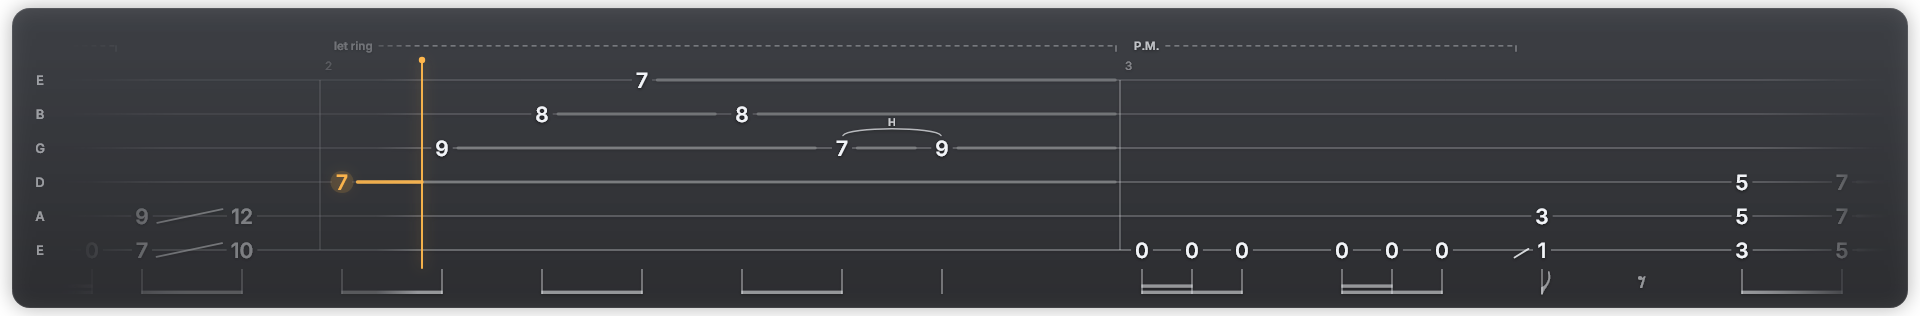
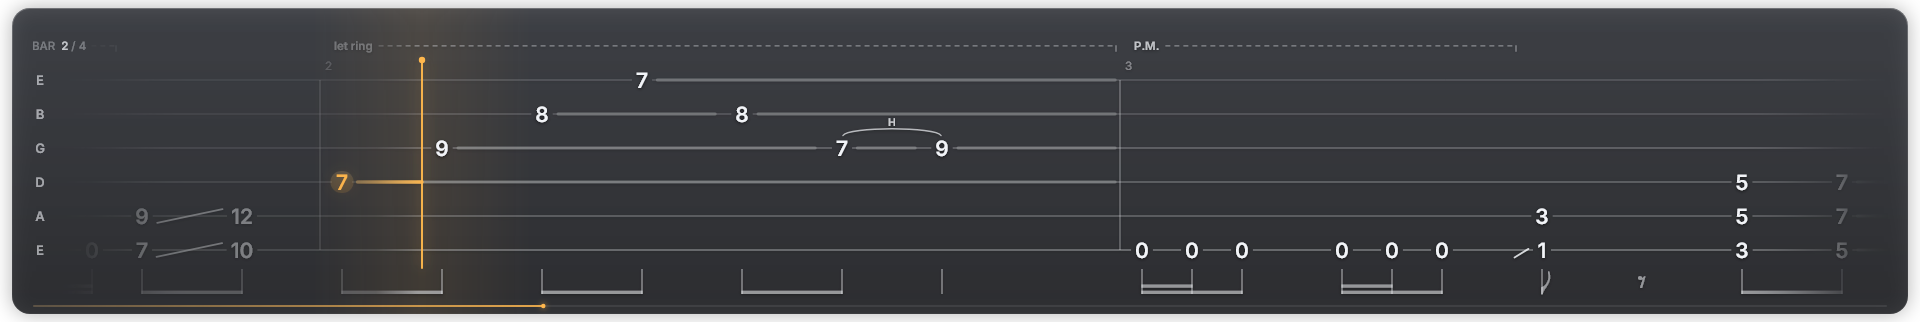
Visual polish, progress line, bar counter and --tuning
- Glossy note chips, comet-style sustain lines, glass card edge and a
  soft light column behind the playhead
- Bar counter and a song progress line
- Strip slides up into place at the start and back down at the end
- --tuning relabels the strings (with real sharp/flat glyphs)
- README and preview image updated

diff --git a/tabscroll.py b/tabscroll.py
@@ -80,7 +80,7 @@ def _props(el):
     return {p.get("name"): p for p in el.findall("Properties/Property")}
 
 
-def load_score(path, track=0, drop_strings=()):
+def load_score(path, track=0, drop_strings=(), tuning=None):
     with zipfile.ZipFile(path) as z:
         root = ET.fromstring(z.read("Content/score.gpif"))
 
@@ -100,6 +100,10 @@ def load_score(path, track=0, drop_strings=()):
     sc.title = (root.findtext("Score/Title") or "").strip()
     sc.track_name = tr.findtext("Name").strip()
     sc.tuning = [PITCH_NAMES[pitches[gs] % 12] for gs in reversed(kept)]  # top row first
+    if tuning:
+        if len(tuning) != len(kept):
+            raise SystemExit(f"--tuning has {len(tuning)} names but {len(kept)} strings are shown")
+        sc.tuning = list(reversed(tuning))
     sc.nstrings = len(kept)
 
     tempos = {}
@@ -317,7 +321,7 @@ class Renderer:
         self.yb = self.ys[-1]
         self.stem_top = self.yb + 19 * s
         self.stem_bot = self.stem_top + 25 * s
-        self.H = int(round(self.stem_bot + 22 * s))
+        self.H = int(round(self.stem_bot + 28 * s))
         self.H += self.H % 2
         self.card_l, self.card_r = 12 * s, self.W - 12 * s
         self.card_t, self.card_b = 8 * s, self.H - 8 * s
@@ -351,8 +355,12 @@ class Renderer:
         assert self.info.colorType() == skia.kBGRA_8888_ColorType
         self.surf_a = skia.Surface(self.W, self.H)
         self.surf_b = skia.Surface(self.W, self.H)
+        self.surf_c = skia.Surface(self.W, self.H)
         self.buf_a = np.zeros((self.H, self.W, 4), np.uint8)
         self.buf_b = np.zeros((self.H, self.W, 4), np.uint8)
+        self.buf_c = np.zeros((self.H, self.W, 4), np.uint8)
+        self.f_acc = load_font("Bravura.otf", 19 * s)
+        self.bar_t0 = [b[2] for b in sc.bars]
         self._build_static()
 
     # -- geometry -----------------------------------------------------------
@@ -408,8 +416,22 @@ class Renderer:
                 [skia.Point(0, self.card_t), skia.Point(0, self.card_b)],
                 [rgba((20, 23, 30), 0.74), rgba((10, 11, 15), 0.80)], [0, 1])
             c.drawRRect(rr, mkpaint(shader=fill))
+            # soft light column behind the playhead
+            c.save()
+            c.clipRRect(rr, skia.ClipOp.kIntersect, True)
+            P, hw = self.P, 110 * s
+            beam = skia.GradientShader.MakeLinear(
+                [skia.Point(P - hw, 0), skia.Point(P + hw, 0)],
+                [rgba(self.accent, 0), rgba(self.accent, 0.085), rgba(self.accent, 0)], [0, 0.5, 1])
+            c.drawRect(skia.Rect.MakeLTRB(P - hw, self.card_t, P + hw, self.card_b), mkpaint(shader=beam))
+            c.restore()
+            # glass edge: brighter along the top, fading down
             inset = skia.RRect.MakeRectXY(r.makeInset(0.5 * s, 0.5 * s), 17.5 * s, 17.5 * s)
-            c.drawRRect(inset, mkpaint((255, 255, 255), 0.08, stroke=1 * s))
+            sheen = skia.GradientShader.MakeLinear(
+                [skia.Point(0, self.card_t), skia.Point(0, self.card_b)],
+                [rgba((255, 255, 255), 0.22), rgba((255, 255, 255), 0.07), rgba((255, 255, 255), 0.04)],
+                [0, 0.35, 1])
+            c.drawRRect(inset, mkpaint(stroke=1 * s, shader=sheen))
         self.draw_labels(c)
         buf = np.zeros((H, W, 4), np.uint8)
         surf.readPixels(self.info, buf)
@@ -442,8 +464,8 @@ class Renderer:
         t = t_video - self.preroll
         W, H, s = self.W, self.H, self.s
 
-        master = min(1.0, t_video / 0.45, (self.total - t_video) / 0.9)
-        master = ease_out(max(0.0, master))
+        master = ease_out(max(0.0, min(1.0, t_video / 0.7, (self.total - t_video) / 0.9)))
+        lift = (1.0 - master) * 22 * s          # slides up into place, and back down at the end
 
         t_lo = t - (self.P + 80 * s) / self.pps
         t_hi = t + (W - self.P + 80 * s) / self.pps
@@ -470,11 +492,16 @@ class Renderer:
         self.draw_playhead(c, t)
         self.draw_live(c, t, vis)
 
+        c = self.surf_c.getCanvas()
+        c.clear(skia.ColorTRANSPARENT)
+        self.draw_hud(c, t)
+
         self.surf_a.readPixels(self.info, self.buf_a)
         self.surf_b.readPixels(self.info, self.buf_b)
-        return self.composite(master)
+        self.surf_c.readPixels(self.info, self.buf_c)
+        return self.composite(master, lift)
 
-    def composite(self, master):
+    def composite(self, master, lift=0.0):
         A = self.buf_a.astype(np.float32)
         A *= self.mask_a
         B = self.buf_b.astype(np.float32)
@@ -490,6 +517,13 @@ class Renderer:
         out += A
         out *= 1.0 - B[..., 3:4]
         out += B
+        C = self.buf_c.astype(np.float32) * (1 / 255.0)
+        out *= 1.0 - C[..., 3:4]
+        out += C
+        if lift > 0.02:
+            M = np.float32([[1, 0, 0], [0, 1, lift]])
+            out = cv2.warpAffine(out, M, (self.W, self.H), flags=cv2.INTER_LINEAR,
+                                 borderMode=cv2.BORDER_CONSTANT, borderValue=(0, 0, 0, 0))
         if master < 1.0:
             out *= master
         alpha = out[..., 3:4]
@@ -806,8 +840,14 @@ class Renderer:
                 if fl <= 0 and su <= 0:
                     continue
                 if su > 0:
-                    for xa, xb in self.tail_segments(n, t, x_max=self.P):
-                        c.drawLine(xa, y, xb, y, mkpaint(self.accent, 0.9 * su, stroke=3.4 * s))
+                    segs = self.tail_segments(n, t, x_max=self.P)
+                    if segs:
+                        g0, g1 = segs[0][0], max(segs[-1][1], segs[0][0] + 1)
+                        comet = skia.GradientShader.MakeLinear(
+                            [skia.Point(g0, 0), skia.Point(g1, 0)],
+                            [rgba(self.accent, 0.30 * su), rgba(self.accent, 0.95 * su)], [0, 1])
+                        for xa, xb in segs:
+                            c.drawLine(xa, y, xb, y, mkpaint(stroke=3.4 * s, shader=comet))
                 if fl <= 0:
                     self.draw_fret_text(c, n, x, y, self.accent, su)
                     continue
@@ -819,7 +859,12 @@ class Renderer:
                 r = self.chip_rect(n, x, y)
                 rr = skia.RRect.MakeRectXY(r, r.height() / 2, r.height() / 2)
                 c.drawRRect(rr, mkpaint(self.accent, 0.55 * fl, blur=7 * s))
-                c.drawRRect(rr, mkpaint(self.accent, fl))
+                hi = tuple(int(a + (255 - a) * 0.38) for a in self.accent)
+                lo = tuple(int(a * 0.9) for a in self.accent)
+                gloss = skia.GradientShader.MakeLinear(
+                    [skia.Point(0, r.top()), skia.Point(0, r.bottom())],
+                    [rgba(hi, fl), rgba(self.accent, fl), rgba(lo, fl)], [0, 0.55, 1])
+                c.drawRRect(rr, mkpaint(shader=gloss))
                 base, base_a = (self.accent, su) if su > 0 else (self.ink, self.dim_at(x))
                 mix = fl * fl          # text returns to its resting colour before the chip is gone
                 col = tuple(int(round(p + (q - p) * mix)) for p, q in zip(base, self.dark))
@@ -827,10 +872,48 @@ class Renderer:
                 c.restore()
 
     def draw_labels(self, c):
+        cap = self.f_lab.getMetrics().fCapHeight
+        paint = mkpaint(self.ink, 0.6)
         for name, y in zip(self.sc.tuning, self.ys):
-            w = self.f_lab.measureText(name)
-            c.drawString(name, self.lab_x - w / 2, y + self.f_lab.getMetrics().fCapHeight / 2,
-                         self.f_lab, mkpaint(self.ink, 0.55))
+            letter, acc = name[:1], name[1:]
+            glyph = {"#": "\uE262", "b": "\uE260"}.get(acc, "")
+            w = self.f_lab.measureText(letter)
+            gw, gb = 0.0, None
+            if glyph:
+                gb = self.f_acc.getBounds(self.f_acc.textToGlyphs(glyph))[0]
+                gw = gb.width() + 1.5 * self.s
+            x = self.lab_x - (w + gw) / 2
+            c.drawString(letter, x, y + cap / 2, self.f_lab, paint)
+            if glyph:
+                gx = x + w + 1.5 * self.s - gb.left()
+                gy = y - cap * 0.12 - (gb.top() + gb.bottom()) / 2
+                c.drawString(glyph, gx, gy, self.f_acc, paint)
+
+    def draw_hud(self, c, t):
+        """Bar counter and a hairline showing progress through the song."""
+        s = self.s
+        x0, x1 = self.card_l + 22 * s, self.card_r - 22 * s
+        y = self.card_b - 8 * s
+        c.drawLine(x0, y, x1, y, mkpaint((255, 255, 255), 0.08, stroke=2 * s))
+        frac = min(1.0, max(0.0, t / self.sc.end_t))
+        if frac > 0:
+            xf = x0 + (x1 - x0) * frac
+            fill = skia.GradientShader.MakeLinear(
+                [skia.Point(x0, 0), skia.Point(xf, 0)],
+                [rgba(self.accent, 0.15), rgba(self.accent, 0.85)], [0, 1])
+            c.drawLine(x0, y, xf, y, mkpaint(stroke=2 * s, shader=fill))
+            c.drawCircle(xf, y, 3.2 * s, mkpaint(self.accent, 0.35, blur=2.5 * s))
+            c.drawCircle(xf, y, 2.2 * s, mkpaint(self.accent, 1.0))
+        nbars = len(self.sc.bars)
+        cur = min(nbars, max(1, bisect.bisect_right(self.bar_t0, t)))
+        yb = self.y0 - 30 * s
+        xl = self.card_l + 20 * s
+        c.drawString("BAR", xl, yb, self.f_small, mkpaint(self.ink, 0.35))
+        xl += self.f_small.measureText("BAR") + 6 * s
+        num = str(cur)
+        c.drawString(num, xl, yb, self.f_tech, mkpaint(self.ink, 0.75))
+        xl += self.f_tech.measureText(num) + 3 * s
+        c.drawString("/ %d" % nbars, xl, yb, self.f_small, mkpaint(self.ink, 0.35))
 
 
 # --------------------------------------------------------------------------
@@ -853,9 +936,9 @@ def over(bg, fg_rgba, x, y):
 _worker = None
 
 
-def _init_worker(gp, track, drop, kw):
+def _init_worker(gp, track, drop, tuning, kw):
     global _worker
-    _worker = Renderer(load_score(gp, track, drop), **kw)
+    _worker = Renderer(load_score(gp, track, drop, tuning), **kw)
 
 
 def _render_frame(k):
@@ -888,6 +971,17 @@ def ffmpeg_cmd(r, args, fmts):
         else:
             raise SystemExit(f"unknown format {f}")
     return cmd + ["-filter_complex", ";".join(fc)] + maps
+
+
+def parse_tuning(text):
+    """'A-E-B-E-G#-B', 'A E B E G♯ B' or 'A,E,B,...' -> ['A', 'E', 'B', 'E', 'G#', 'B']."""
+    import re
+    text = text.replace("♯", "#").replace("♭", "b")
+    names = [n for n in re.split(r"[\s,\-–—/]+", text) if n]
+    for n in names:
+        if not re.fullmatch(r"[A-Ga-g][#b]?", n):
+            raise SystemExit(f"--tuning: can't read note name {n!r}")
+    return [n[0].upper() + n[1:] for n in names]
 
 
 def list_tracks(path):
@@ -938,6 +1032,8 @@ def main():
                     help="comma list of strings to hide, counted from the LOWEST string starting at 0 "
                          "(e.g. 0 hides the low B of a 7-string)")
     ap.add_argument("--list-tracks", action="store_true", help="print the tracks in the file and exit")
+    ap.add_argument("--tuning", help='string names to display, low to high, e.g. "A E B E G# B" '
+                                     "(labels only; fret numbers are unchanged)")
     ap.add_argument("--scale", type=float, default=1.0, help="1 = 1920 wide, 2 = 3840 wide")
     ap.add_argument("--variant", choices=["card", "clean"], default="card")
     ap.add_argument("--fps", type=int, default=60)
@@ -958,10 +1054,11 @@ def main():
         list_tracks(args.gp)
         return
     drop = tuple(int(v) for v in args.drop_strings.split(",") if v.strip())
+    tuning = parse_tuning(args.tuning) if args.tuning else None
     kw = dict(scale=args.scale, variant=args.variant, fps=args.fps,
               preroll=args.preroll, px_per_beat=args.px_per_beat, playhead=args.playhead,
               accent=tuple(int(args.accent.lstrip("#")[i:i + 2], 16) for i in (0, 2, 4)))
-    sc = load_score(args.gp, args.track, drop)
+    sc = load_score(args.gp, args.track, drop, tuning)
     r = Renderer(sc, **kw)
     print(f"{sc.track_name}: {len(sc.bars)} bars, {len(sc.beats)} beats, strings {' '.join(sc.tuning)}, "
           f"dropped {sc.dropped} notes; frame {r.W}x{r.H}, {r.total:.3f}s, {r.nframes} frames; "
@@ -991,7 +1088,7 @@ def main():
     import multiprocessing as mp
     import time
     t_start, last = time.time(), 0.0
-    with mp.Pool(args.workers, initializer=_init_worker, initargs=(args.gp, args.track, drop, kw)) as pool:
+    with mp.Pool(args.workers, initializer=_init_worker, initargs=(args.gp, args.track, drop, tuning, kw)) as pool:
         for k, frame in enumerate(pool.imap(_render_frame, range(first, first + nframes), chunksize=4)):
             proc.stdin.write(frame)
             now = time.time()

diff --git a/README.md b/README.md
@@ -72,6 +72,10 @@ track 2: 'Bass'           4 strings, low->high E A D G        notes per string [
   Suppose a 7-string track only touches the low string in the intro and you want a normal 6-line tab:
   add `--drop-strings 0`. Notes on hidden strings are removed, and the strip shrinks to fit.
   The `notes per string` list shows how much you'd lose.
+- **Relabel the strings** with `--tuning` if you play the tab in a different tuning than it was written in, as long as
+  it has the same intervals (e.g. a tab written in C G D G B D, played tuned 3 semitones down):
+  `--tuning "A E B E G# B"`, listed low to high. Separate names with spaces, commas or dashes; `#`/`♯` and `b`/`♭` both work.
+  Only the labels change; the fret numbers stay the same.
 
 ## 4. Preview a frame
 
@@ -106,6 +110,7 @@ python tabscroll.py mysong.gp --scale 2 --variant clean --out renders/mysong_4k_
 |---|---|---|
 | `--track N` | `0` | Which track to render (see `--list-tracks`). |
 | `--drop-strings 0,1` | none | Hide strings, counted from the lowest string starting at 0. |
+| `--tuning "A E B E G# B"` | from file | Relabel the strings, low to high. Labels only; the fret numbers don't change. |
 | `--scale` | `1` | `1` gives a 1920-wide strip (for 1080p); `2` gives a 3840-wide strip (for 4K). |
 | `--variant` | `card` | `card` puts the tab on a dark rounded backdrop. `clean` shows only the tab with a soft shadow. |
 | `--formats` | `prores,webm` | Any of `prores`, `webm`, `preview` (comma-separated). |
@@ -127,7 +132,7 @@ python tabscroll.py mysong.gp --scale 2 --variant clean --out renders/mysong_4k_
 | `webm` | `*_vp9alpha.webm` | OBS, browsers and web-based editors. Transparent and small (tens of MB). |
 | `preview` | `*_preview.mp4` | Just for looking at: a 16:9 H.264 video with the strip composited on the background. Not transparent. |
 
-The strip is 1920×316 at `--scale 1` or 3840×632 at `--scale 2`. It gets taller if you keep 7+ strings.
+The strip is 1920×322 at `--scale 1` or 3840×644 at `--scale 2`. It gets taller if you keep 7+ strings.
 
 ## 6. Put it in your video
 
@@ -180,6 +185,8 @@ Use the 4K render on 4K timelines. On a 1080p timeline, either render with `--sc
 | `P.M. - - - -┐` / `let ring - - -┐` | Palm mute and let ring spans. |
 | Stems and beams under the tab | Rhythm (8ths, 16ths, dots and rests). |
 | Dimmed notes on the left | Already played. |
+| `BAR 13 / 42` (top left) | Current bar and total bars. |
+| Thin line along the bottom | Progress through the song. |
 
 ## Limitations
 
